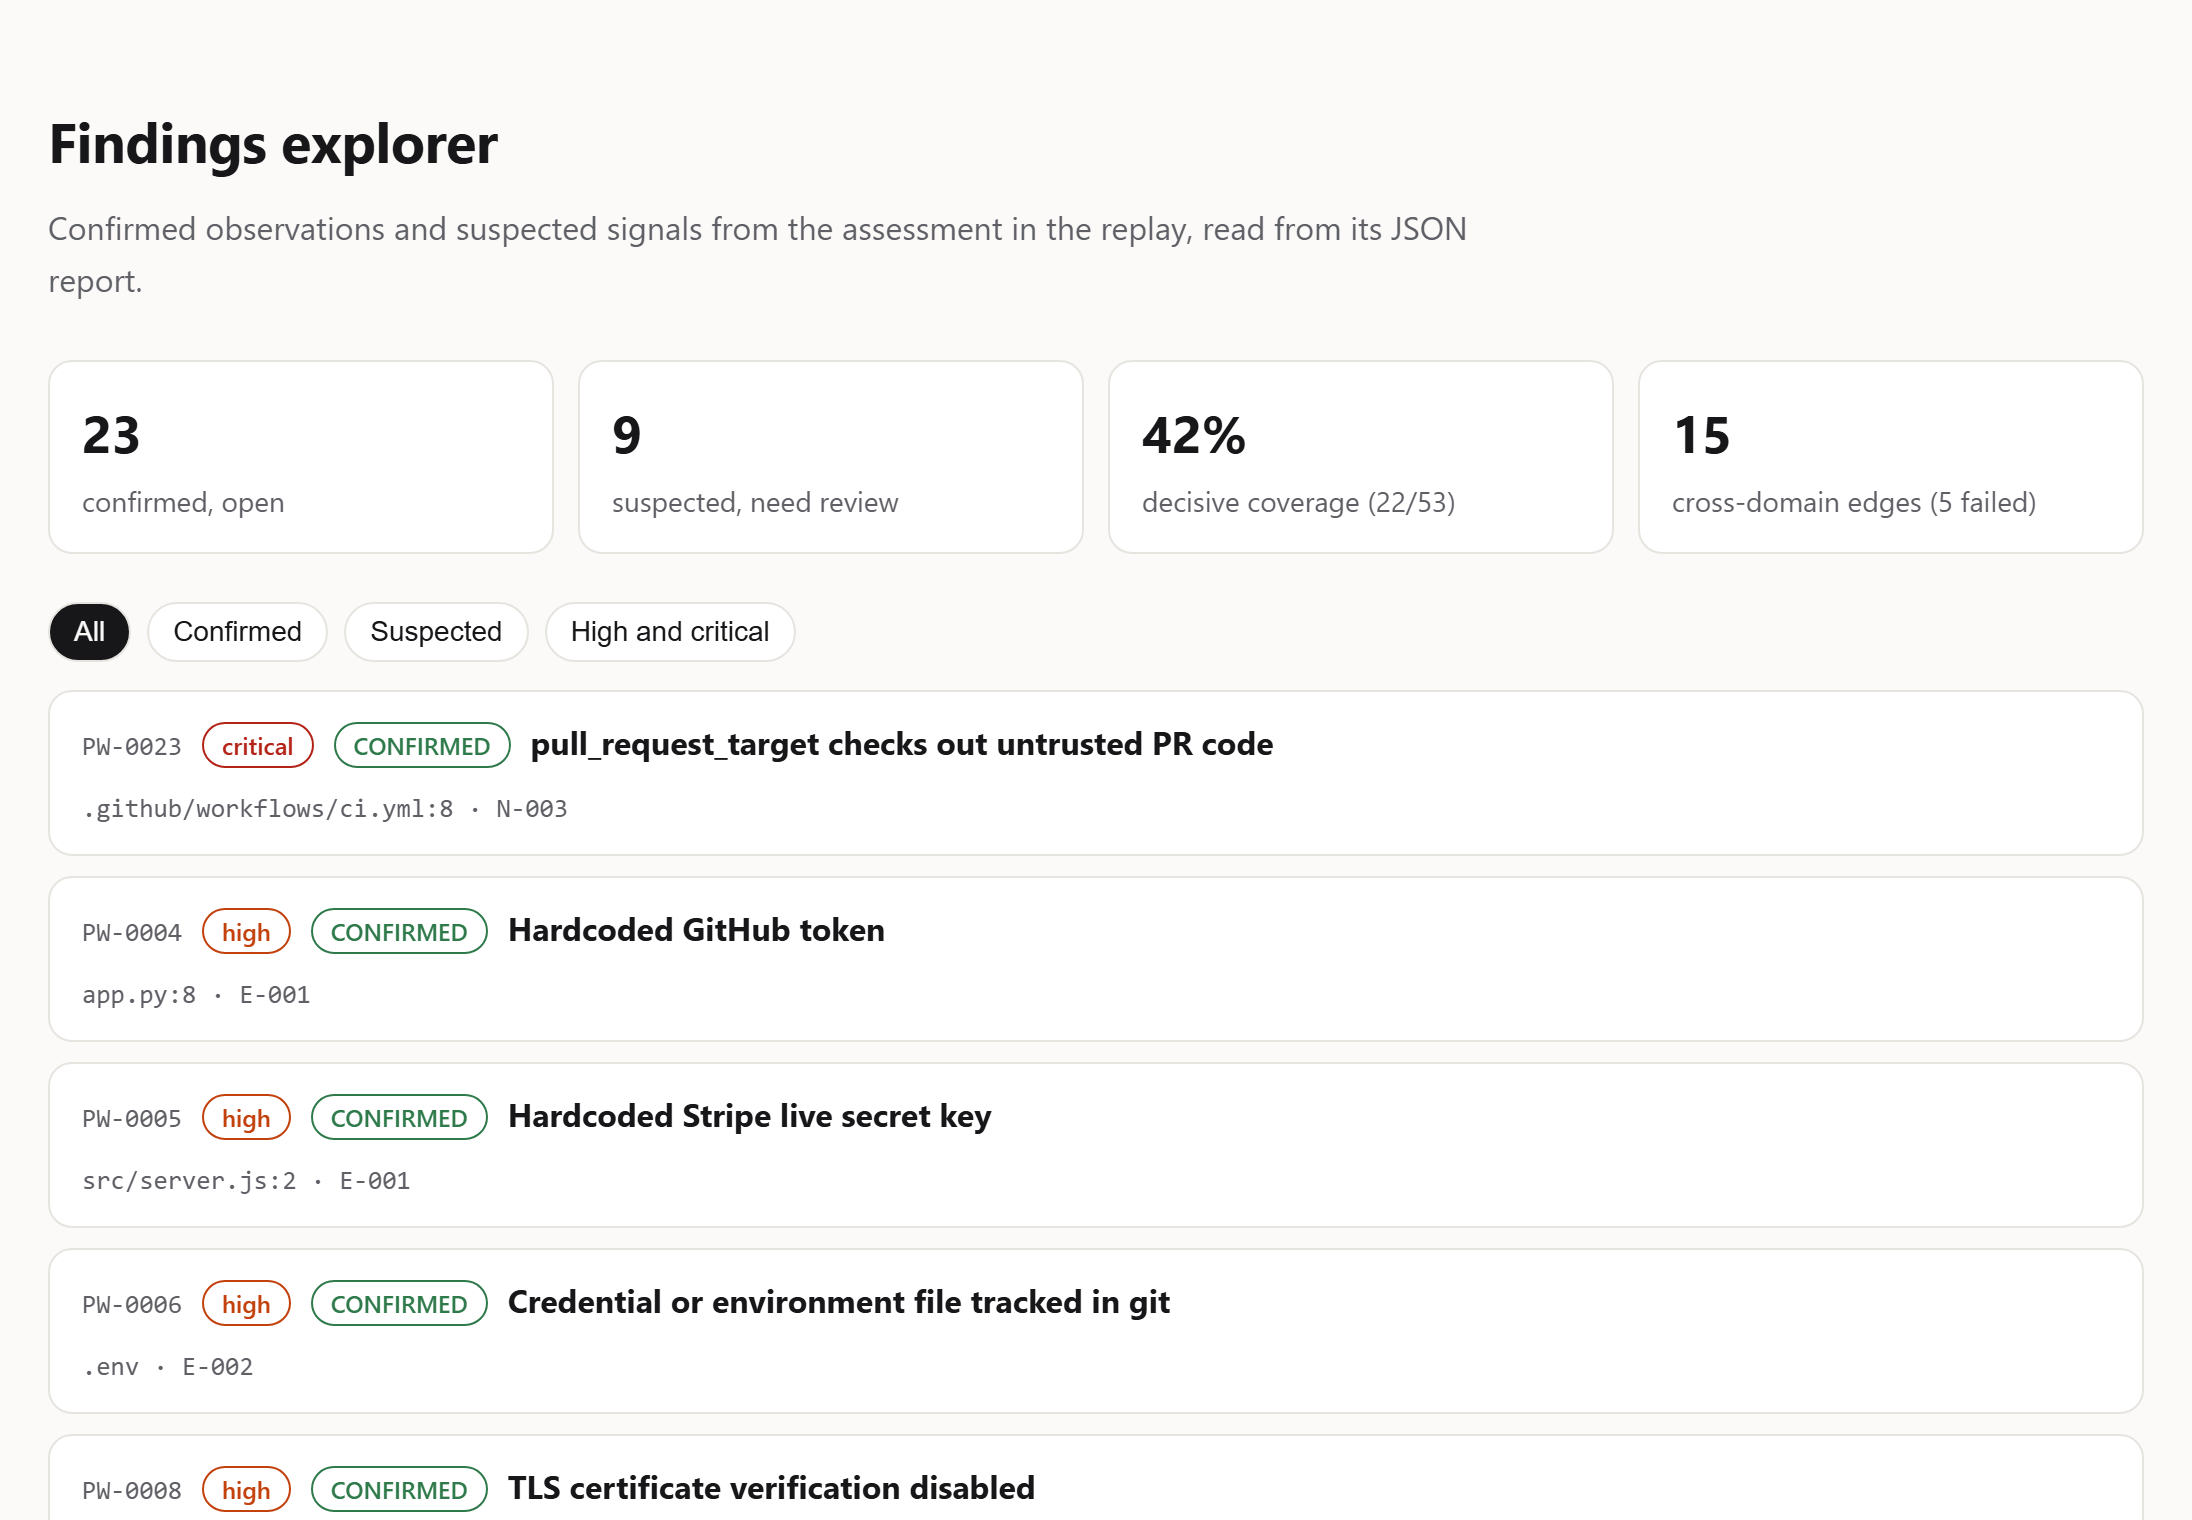
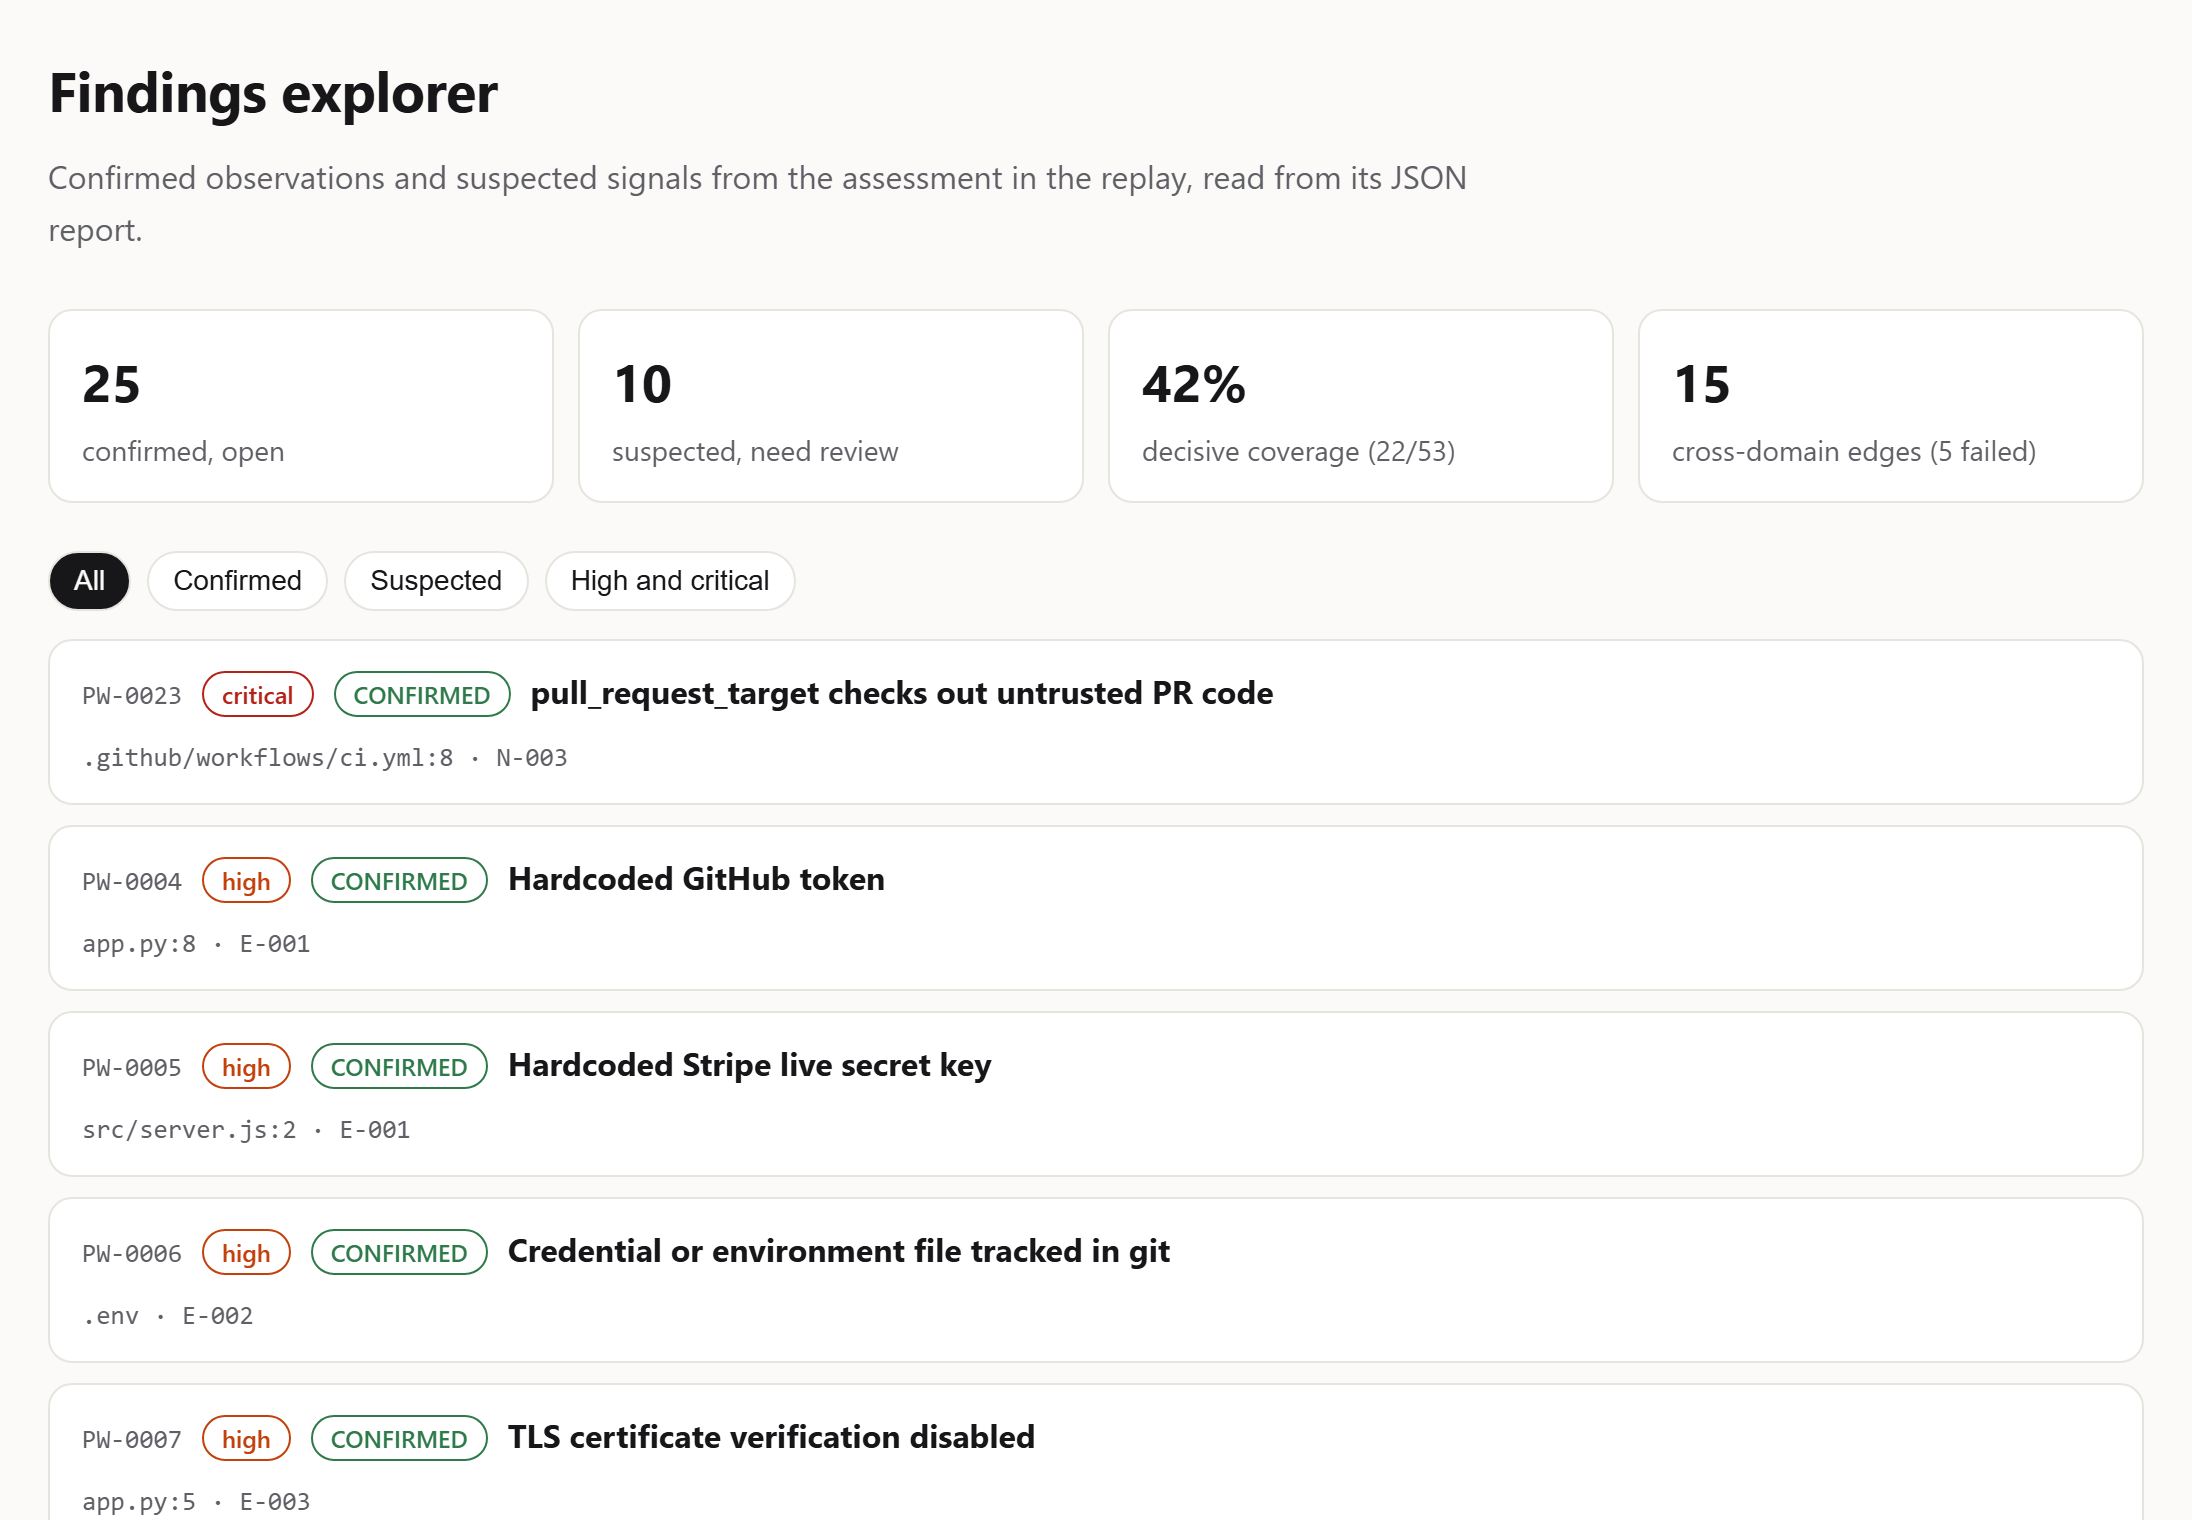
Refresh the README demo and screenshots for 0.2.16

diff --git a/README.md b/README.md
@@ -29,7 +29,7 @@
 Most scanners print a list of alerts and stop. PandaWard keeps a **ledger**: every control it could check, how it checked it, the redacted evidence, and every control it could *not* decide. Findings are fingerprinted across runs, so a fix becomes `REMEDIATED` only when the check runs again and no longer sees the problem, and a moved or renamed file keeps its findings, their IDs and your triage instead of reading as fixed.
 
 <p align="center">
-  <img src="docs/media/demo.svg" width="860" alt="Terminal session on the bundled demo project: pandaward init detects the stack, pandaward scan reports which adapters ran, the built-in taint engine among them, and which are BLOCKED, 42% decisive coverage and 34 open findings, then findings, the cross-domain graph and an ordered fix plan">
+  <img src="docs/media/demo.svg" width="860" alt="Terminal session on the bundled demo project: pandaward init detects the stack, pandaward scan reports which adapters ran, the built-in taint engine among them, and which are BLOCKED, 40% decisive coverage and 32 open findings, then findings, the cross-domain graph and an ordered fix plan">
   <br><sub>A real session on the bundled demo project, generated by <code>tools/termdemo</code>.</sub>
 </p>
 
@@ -37,7 +37,7 @@ Most scanners print a list of alerts and stop. PandaWard keeps a **ledger**: eve
   <a href="https://pandaward.dev/demo/">
     <picture>
       <source media="(prefers-color-scheme: dark)" srcset="docs/media/findings-dark.png">
-      <img src="docs/media/findings-light.png" width="860" alt="PandaWard findings explorer for the bundled acme-shop fixture: 23 confirmed findings, 9 suspected, 42% decisive coverage, with a critical pull_request_target finding and hardcoded secrets at the top">
+      <img src="docs/media/findings-light.png" width="860" alt="PandaWard findings explorer for the bundled acme-shop fixture: 25 confirmed findings, 10 suspected, 42% decisive coverage, with a critical pull_request_target finding and hardcoded secrets at the top">
     </picture>
   </a>
   <br><sub>Findings from a real scan of the bundled vulnerable fixture. <a href="https://pandaward.dev/demo/">Open the live demo</a> for the terminal replay and the full report.</sub>
